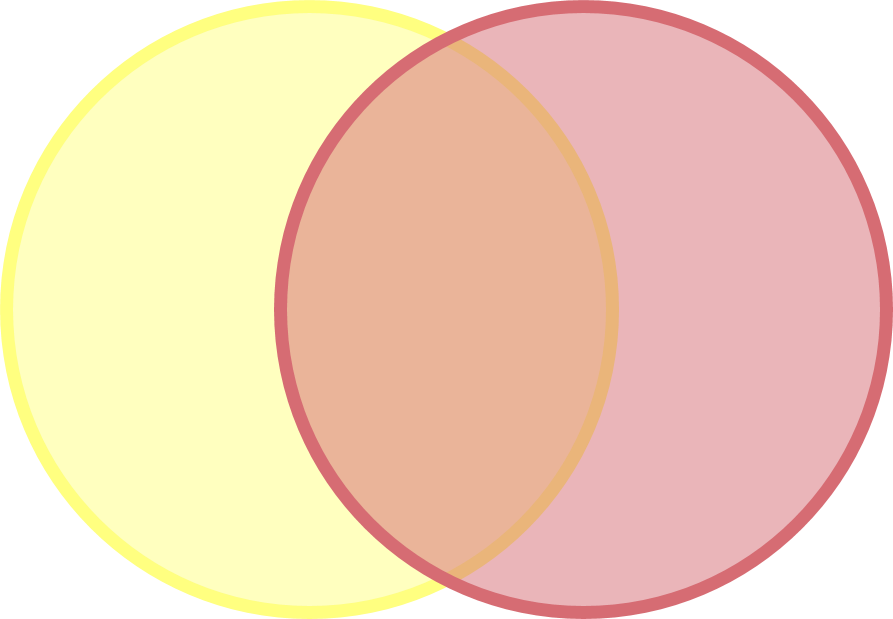
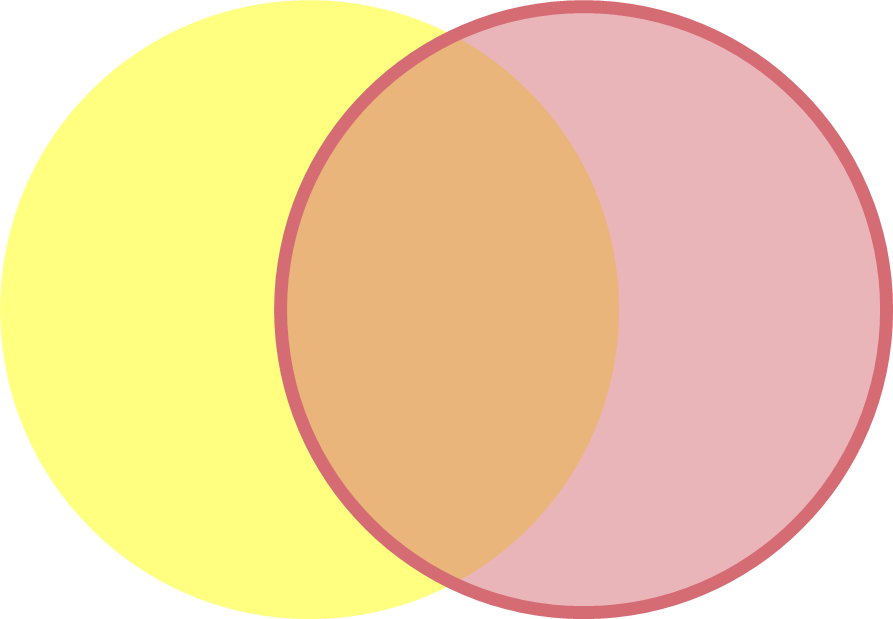
adding image

diff --git a/venn/venn.js b/venn/venn.js
@@ -936,7 +936,7 @@
 			case "original":
 				//color1.style.backgroundColor = "#FFFFBF";
 				color1.style.backgroundColor = "solid yellow";
-				color1.style.border = "4px solid yellow";
+				color1.style.border = "1px solid black";
 				color2.style.backgroundColor = "#EAB4B8";
 				color2.style.border = "4px solid #D66C73";
 				break;
